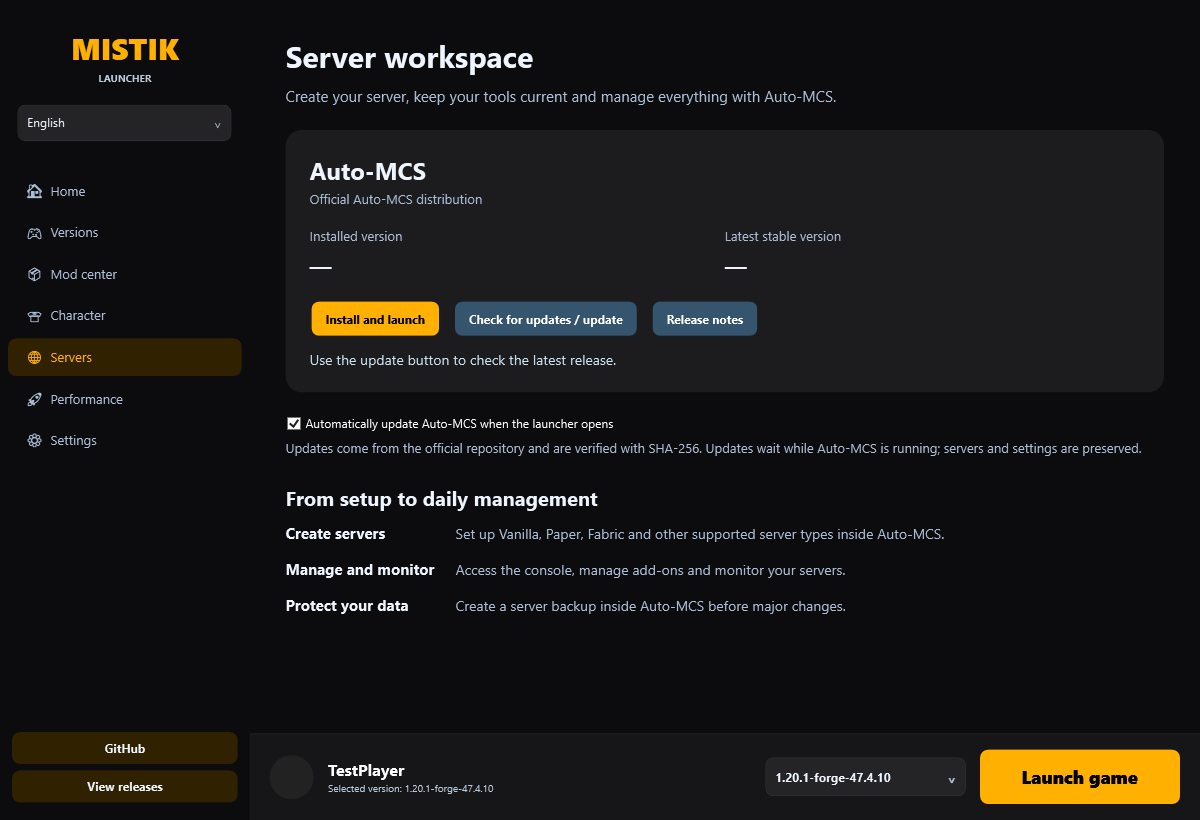
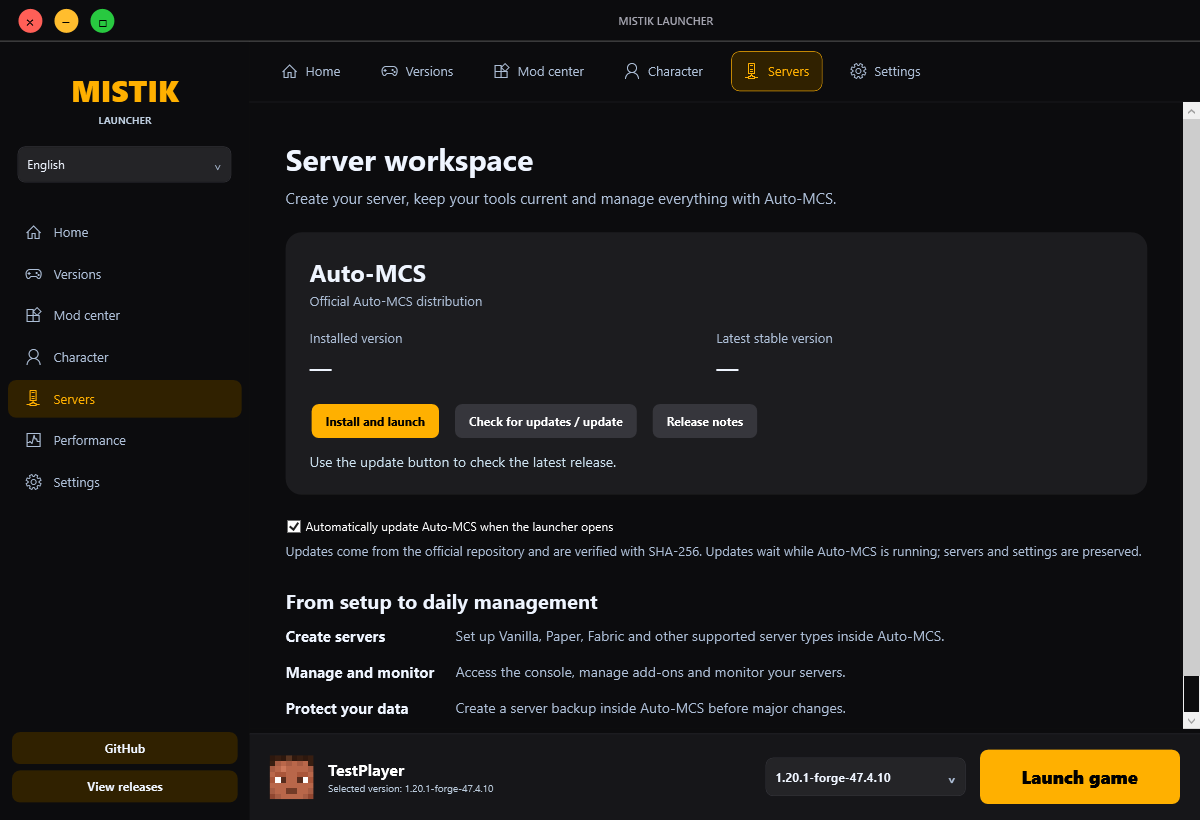
Add customizable themed toolbar and 16 window control appearances

diff --git a/MistikLauncher/MainWindow.xaml b/MistikLauncher/MainWindow.xaml
@@ -45,7 +45,7 @@
             <Setter Property="Template">
                 <Setter.Value>
                     <ControlTemplate TargetType="Button">
-                        <Border x:Name="Bd" Background="{TemplateBinding Background}"
+                        <Border x:Name="Bd" Background="{TemplateBinding Background}" BorderBrush="{TemplateBinding BorderBrush}" BorderThickness="{TemplateBinding BorderThickness}"
                                 CornerRadius="8" Margin="8,2">
                             <ContentPresenter VerticalAlignment="Center"
                                               Margin="{TemplateBinding Padding}"/>
@@ -96,6 +96,13 @@
         </Style>
     </Window.Resources>
 
+    <DockPanel>
+        <Border x:Name="CaptionHost" DockPanel.Dock="Top" Height="42" Background="{DynamicResource Theme0D1727}" BorderBrush="{DynamicResource Theme365574}" BorderThickness="0,0,0,1">
+            <DockPanel>
+                <StackPanel x:Name="CaptionButtons" Orientation="Horizontal" Margin="12,0" VerticalAlignment="Center"/>
+                <TextBlock Text="MISTIK LAUNCHER" Foreground="#A5A5B0" FontSize="11" FontWeight="SemiBold" VerticalAlignment="Center" HorizontalAlignment="Center" Margin="12,0"/>
+            </DockPanel>
+        </Border>
     <Grid Background="{DynamicResource Theme0D1727}">
         <Grid.ColumnDefinitions>
             <ColumnDefinition Width="250"/>
@@ -153,8 +160,13 @@
         </Border>
 
         <!-- ═══ CONTENT ═══════════════════════════════════════════════════════ -->
-        <Frame x:Name="MainFrame" Grid.Column="1" Grid.Row="0"
+        <DockPanel Grid.Column="1" Grid.Row="0">
+            <Border x:Name="QuickBarHost" DockPanel.Dock="Top" Background="{DynamicResource Theme0D1727}" BorderBrush="{DynamicResource Theme365574}" BorderThickness="0,0,0,1" Padding="12,8">
+                <WrapPanel x:Name="QuickBarPanel"/>
+            </Border>
+        <Frame x:Name="MainFrame"
                Background="Transparent" NavigationUIVisibility="Hidden"/>
+        </DockPanel>
 
         <!-- ═══ PROGRESS ══════════════════════════════════════════════════════ -->
         <ProgressBar x:Name="GlobalProgress" Grid.Column="1" Grid.Row="1"
@@ -226,4 +238,5 @@
             </Grid>
         </Border>
     </Grid>
+    </DockPanel>
 </Window>

diff --git a/MistikLauncher/WindowAppearance.cs b/MistikLauncher/WindowAppearance.cs
@@ -1,0 +1,50 @@
+using System.Windows;
+using System.Windows.Controls;
+using System.Windows.Media;
+using System.Windows.Shell;
+namespace MistikLauncher;
+public partial class MainWindow
+{
+    public static readonly string[] WindowButtonStyles={"MacOS","Windows","Minimal","Neon","Retro","Glass","Terminal","Pill","Cyberpunk","Balloon","Aurora","Diamond","NeonOutline","FrostedGlass","Samurai","Hologram"};
+    public void SetWindowButtons(string style)
+    {
+        Config.WindowButtons=WindowButtonStyles.Contains(style)?style:"MacOS";
+        ConfigManager.Save(Config); ApplyWindowAppearance();
+    }
+    public void ApplyWindowAppearance()
+    {
+        string style=WindowButtonStyles.Contains(Config.WindowButtons)?Config.WindowButtons:"MacOS";
+        bool native=style=="Windows";
+        CaptionHost.Visibility=native?Visibility.Collapsed:Visibility.Visible;
+        WindowChrome.SetWindowChrome(this,native?null:new WindowChrome { CaptionHeight=42,ResizeBorderThickness=new Thickness(6),GlassFrameThickness=new Thickness(0),CornerRadius=new CornerRadius(0),UseAeroCaptionButtons=false });
+        WindowStyle=native?WindowStyle.SingleBorderWindow:WindowStyle.None;
+        DockPanel.SetDock(CaptionButtons,style=="MacOS"?Dock.Left:Dock.Right);
+        WindowChrome.SetIsHitTestVisibleInChrome(CaptionButtons,true);
+        CaptionButtons.Children.Clear();
+        var actions=style=="MacOS"?new[]{"close","minimize","maximize"}:new[]{"minimize","maximize","close"};
+        foreach(string action in actions)
+        {
+            var accent=ColorThemes.Brush("#00A3FF").Color;
+            var color=style=="MacOS" ? action switch { "close"=>Color.FromRgb(255,95,87),"minimize"=>Color.FromRgb(255,189,46),_=>Color.FromRgb(40,201,64) } : accent;
+            bool round=new[]{"MacOS","Minimal","Neon","Balloon","Aurora","FrostedGlass","Hologram"}.Contains(style);
+            bool outline=new[]{"Minimal","Terminal","Cyberpunk","NeonOutline","Samurai"}.Contains(style);
+            double width=round?24:38;
+            var fill=new SolidColorBrush(color);
+            Brush background=outline?Brushes.Transparent:style is "Glass" or "FrostedGlass"?new SolidColorBrush(Color.FromArgb(45,color.R,color.G,color.B)):fill;
+            if(style is "Aurora" or "Hologram" or "Pill" or "Balloon") background=new LinearGradientBrush(color,Color.FromRgb((byte)(color.R*0.35),(byte)(color.G*0.35),(byte)(color.B*0.35)),45);
+            var frame=new Border { Background=background,BorderBrush=fill,BorderThickness=new Thickness(outline?1:0),CornerRadius=new CornerRadius(round?12:style=="Pill"?10:style=="Retro"?0:5),Width=width,Height=24 };
+            string glyph=style=="Diamond"?"◆":action switch { "close"=>"×","minimize"=>"−",_=>WindowState==WindowState.Maximized?"❐":"□" };
+            frame.Child=new TextBlock { Text=glyph,FontSize=15,HorizontalAlignment=HorizontalAlignment.Center,VerticalAlignment=VerticalAlignment.Center,Foreground=outline || style is "Glass" or "FrostedGlass"?fill:style=="MacOS"?Brushes.Black:ColorThemes.ActionText };
+            if(style is "Neon" or "NeonOutline" or "Hologram") frame.Effect=new System.Windows.Media.Effects.DropShadowEffect { Color=color,BlurRadius=8,ShadowDepth=0,Opacity=0.45 };
+            var button=new Button { Content=frame,Background=Brushes.Transparent,BorderThickness=new Thickness(0),Padding=new Thickness(5),MinHeight=36,MinWidth=36,ToolTip=Localization.T("window"+action),Cursor=System.Windows.Input.Cursors.Hand };
+            button.Template=(ControlTemplate)System.Windows.Markup.XamlReader.Parse("<ControlTemplate xmlns='http://schemas.microsoft.com/winfx/2006/xaml/presentation' TargetType='Button'><Border Name='focus' Padding='{TemplateBinding Padding}' BorderBrush='Transparent' BorderThickness='1' CornerRadius='5'><ContentPresenter/></Border><ControlTemplate.Triggers><Trigger Property='IsKeyboardFocused' Value='True'><Setter TargetName='focus' Property='BorderBrush' Value='White'/></Trigger><Trigger Property='IsMouseOver' Value='True'><Setter TargetName='focus' Property='Background' Value='#303035'/></Trigger></ControlTemplate.Triggers></ControlTemplate>");
+            System.Windows.Automation.AutomationProperties.SetName(button,Localization.T("window"+action));
+            button.Click+=(_,_)=> {
+                if(action=="close") Close();
+                else if(action=="minimize") WindowState=WindowState.Minimized;
+                else { WindowState=WindowState==WindowState.Maximized?WindowState.Normal:WindowState.Maximized; ApplyWindowAppearance(); }
+            };
+            CaptionButtons.Children.Add(button);
+        }
+    }
+}

diff --git a/MistikLauncher/MainWindow.xaml.cs b/MistikLauncher/MainWindow.xaml.cs
@@ -127,6 +127,7 @@ namespace MistikLauncher
         }
         void RefreshLanguage()
         {
+            ApplyWindowAppearance();
             BuildNav();
             BtnLaunch.Content = Localization.T("play");
             BtnYoutube.Content = Localization.T("releases");
@@ -205,6 +206,7 @@ namespace MistikLauncher
             BtnLaunch.Background = ColorThemes.Brush("#00A3FF");
             BtnLaunch.Foreground = ColorThemes.ActionText;
             GlobalProgress.Foreground = new SolidColorBrush(c);
+            ApplyWindowAppearance();
         }
 
         public void SetColorTheme(string name)
@@ -236,11 +238,36 @@ namespace MistikLauncher
             if (App.AdminAccessEnabled)
                 AddNav("Admin", "👑  Yönetici Paneli");
             AddNav("Settings",  "⚙  Ayarlar");
+            BuildQuickBar();
+        }
+
+        readonly Dictionary<string,Button> quickButtons=new();
+        public void BuildQuickBar()
+        {
+            QuickBarPanel.Children.Clear(); quickButtons.Clear();
+            foreach(var item in new[]{("Dash","home","\uE80F"),("Vers","versions","\uE7FC"),("Mods","mods","\uE74C"),("Skin","skin","\uE77B"),("Server","server","\uE968"),("Settings","settings","\uE713")})
+            {
+                if(!Config.QuickLinks.Contains(item.Item1)) continue;
+                var content=new StackPanel { Orientation=Orientation.Horizontal };
+                content.Children.Add(new TextBlock { Text=item.Item3,FontFamily=new FontFamily("Segoe MDL2 Assets"),FontSize=16,VerticalAlignment=VerticalAlignment.Center,Margin=new Thickness(0,0,8,0) });
+                content.Children.Add(new TextBlock { Text=Localization.T(item.Item2),VerticalAlignment=VerticalAlignment.Center });
+                var button=new Button { Content=content,Style=(Style)FindResource("NavBtn"),Height=44,Padding=new Thickness(12,0,12,0),MinWidth=100 };
+                System.Windows.Automation.AutomationProperties.SetName(button,Localization.T(item.Item2));
+                button.Click+=(_,_)=>Navigate(item.Item1); quickButtons[item.Item1]=button; QuickBarPanel.Children.Add(button);
+            }
+            QuickBarHost.Visibility=quickButtons.Count==0?Visibility.Collapsed:Visibility.Visible;
+            SelectNav(_currentNav);
         }
 
         void AddNav(string key, string label)
         {
-            var btn = new Button { Content = Localization.T(label), Style = (Style)FindResource("NavBtn") };
+            var title=Regex.Replace(Localization.T(label),@"^[^\p{L}]+","");
+            var content=new StackPanel { Orientation=Orientation.Horizontal };
+            string glyph=key switch { "Dash"=>"\uE80F","Vers"=>"\uE7FC","Mods"=>"\uE74C","Skin"=>"\uE77B","Server"=>"\uE968","Opt"=>"\uE9D9",_=>"\uE713" };
+            content.Children.Add(new TextBlock { Text=glyph,FontFamily=new FontFamily("Segoe MDL2 Assets"),FontSize=16,VerticalAlignment=VerticalAlignment.Center,Margin=new Thickness(0,0,12,0) });
+            content.Children.Add(new TextBlock { Text=title,VerticalAlignment=VerticalAlignment.Center });
+            var btn = new Button { Content = content, Style = (Style)FindResource("NavBtn") };
+            System.Windows.Automation.AutomationProperties.SetName(btn,title);
             btn.Click += (_, _) => Navigate(key);
             NavPanel.Children.Add(btn);
             _navBtns[key] = btn;
@@ -251,6 +278,13 @@ namespace MistikLauncher
             foreach (var b in _navBtns.Values) { b.Background=Brushes.Transparent; b.Foreground=HexBrush("#ADBED6"); }
             if (_navBtns.TryGetValue(key, out var btn)) {
                 btn.Background=ColorThemes.Brush("#274565"); btn.Foreground=ColorThemes.Brush("#00A3FF");
+            }
+            foreach(var item in quickButtons) {
+                bool selected=item.Key==key;
+                item.Value.Background=selected?ColorThemes.Brush("#274565"):Brushes.Transparent;
+                item.Value.Foreground=selected?ColorThemes.Brush("#00A3FF"):HexBrush("#ADBED6");
+                item.Value.BorderBrush=selected?ColorThemes.Brush("#00A3FF"):Brushes.Transparent;
+                item.Value.BorderThickness=new Thickness(selected?1:0);
             }
         }
 
@@ -283,6 +317,7 @@ namespace MistikLauncher
                 _pageCache[key] = page;
             }
 
+            page.Resources[typeof(ComboBox)]=FindResource(typeof(ComboBox));
             if(page is ILanguagePage localized) localized.RefreshLanguage();
             MainFrame.Navigate(page);
         }

diff --git a/Validation/Program.cs b/Validation/Program.cs
@@ -67,11 +67,40 @@ class Program
             Check(turkish.Values.All(v=>!string.IsNullOrWhiteSpace(v)) && english.Values.All(v=>!string.IsNullOrWhiteSpace(v)), "no empty translations");
             var application=new MistikLauncher.Application(); application.InitializeComponent();
             var window=new MainWindow { Width=1200, Height=820 };
+            foreach(var style in MainWindow.WindowButtonStyles) {
+                window.SetWindowButtons(style);
+                Check(ConfigManager.Load().WindowButtons==style && ((StackPanel)window.FindName("CaptionButtons")).Children.Count==3,"window button style renders and persists: "+style);
+            }
+            window.SetWindowButtons("MacOS");
+            var caption=(StackPanel)window.FindName("CaptionButtons");
+            ((Button)caption.Children[1]).RaiseEvent(new RoutedEventArgs(Button.ClickEvent));
+            Check(window.WindowState==WindowState.Minimized,"custom window button minimizes");
+            window.WindowState=WindowState.Normal;
+            ((Button)caption.Children[2]).RaiseEvent(new RoutedEventArgs(Button.ClickEvent));
+            Check(window.WindowState==WindowState.Maximized,"custom window button maximizes");
+            ((Button)caption.Children[2]).RaiseEvent(new RoutedEventArgs(Button.ClickEvent));
+            Check(window.WindowState==WindowState.Normal,"custom window button restores");
+            var bar=(System.Windows.Controls.WrapPanel)window.FindName("QuickBarPanel");
+            Check(bar.Children.Count==6,"top bar exposes six bilingual shortcuts by default");
+            window.Config.QuickLinks=new(){"Dash","Settings"}; ConfigManager.Save(window.Config); window.BuildQuickBar();
+            Check(bar.Children.Count==2 && ConfigManager.Load().QuickLinks.SequenceEqual(new[]{"Dash","Settings"}),"shortcut customization persists");
+            ((Button)bar.Children[1]).RaiseEvent(new RoutedEventArgs(Button.ClickEvent));
+            Flush(window);
+            Check(((Frame)window.FindName("MainFrame")).Content is MistikLauncher.Pages.ModernSettingsPage,"top shortcut navigates to requested page");
+            window.Config.QuickLinks.Clear(); window.BuildQuickBar();
+            Check(((Border)window.FindName("QuickBarHost")).Visibility==Visibility.Collapsed,"empty top bar hides without reserving space");
+            window.Config.QuickLinks=new(){"Dash","Vers","Mods","Skin","Server","Settings"}; ConfigManager.Save(window.Config); window.BuildQuickBar();
             foreach(var name in ColorThemes.Names)
             {
                 var surface=ColorThemes.Brush("#192C46"); var previous=surface.Color;
                 window.SetColorTheme(name);
                 Check(ConfigManager.Load().Accent==name && !surface.IsFrozen,"runtime theme persists and remains mutable: "+name);
+                double Luminance(Color color) {
+                    double Linear(byte c) { double v=c/255.0; return v<=0.04045?v/12.92:Math.Pow((v+0.055)/1.055,2.4); }
+                    return Linear(color.R)*0.2126+Linear(color.G)*0.7152+Linear(color.B)*0.0722;
+                }
+                double background=Luminance(ColorThemes.Brush("#00A3FF").Color), foreground=Luminance(((SolidColorBrush)ColorThemes.ActionText).Color);
+                Check((Math.Max(background,foreground)+0.05)/(Math.Min(background,foreground)+0.05)>=4.5,"primary action text contrast meets 4.5:1: "+name);
                 window.Navigate("Dash");
             }
             window.SetColorTheme("Amber");
@@ -117,14 +146,18 @@ class Program
     }
     static void Capture(Window window,string path)
     {
-        var frame=new DispatcherFrame();
-        window.Dispatcher.BeginInvoke(DispatcherPriority.ContextIdle,new Action(()=>frame.Continue=false));
-        Dispatcher.PushFrame(frame);
+        Flush(window);
         var root=(FrameworkElement)window.Content;
         root.Measure(new Size(1200,820)); root.Arrange(new Rect(0,0,1200,820)); root.UpdateLayout();
         var bitmap=new RenderTargetBitmap(1200,820,96,96,PixelFormats.Pbgra32); bitmap.Render(root);
         var encoder=new PngBitmapEncoder(); encoder.Frames.Add(BitmapFrame.Create(bitmap));
         using var file=File.Create(path); encoder.Save(file);
+    }
+    static void Flush(Window window)
+    {
+        var frame=new DispatcherFrame();
+        window.Dispatcher.BeginInvoke(DispatcherPriority.ContextIdle,new Action(()=>frame.Continue=false));
+        Dispatcher.PushFrame(frame);
     }
 }
 

diff --git a/MistikLauncher/Pages/ModernPages.cs b/MistikLauncher/Pages/ModernPages.cs
@@ -136,6 +136,31 @@ public class ModernSettingsPage : Page, ILanguagePage
             tiles.Add((name,tile,mark)); swatches.Children.Add(choice);
         }
         UpdateSelection(); themeContent.Children.Add(swatches); themeCard.Child=themeContent; stack.Children.Insert(2,themeCard);
+        var barCard=new Border { Background=PageHelpers.HexBrush("#192C46"),Padding=new Thickness(20),CornerRadius=new CornerRadius(14),Margin=new Thickness(0,12,0,0) };
+        var barContent=new StackPanel();
+        barContent.Children.Add(PageHelpers.Lbl(Localization.T("barTitle"),18,"#EFF5FF",true));
+        barContent.Children.Add(PageHelpers.Lbl(Localization.T("barHelp"),13,"#ADBED6",pad:new Thickness(0,8,0,12),wrap:TextWrapping.Wrap));
+        var options=new WrapPanel();
+        foreach(var item in new[]{("Dash","home"),("Vers","versions"),("Mods","mods"),("Skin","skin"),("Server","server"),("Settings","settings")})
+        {
+            var option=new CheckBox { Content=Localization.T(item.Item2),IsChecked=main.Config.QuickLinks.Contains(item.Item1),Foreground=PageHelpers.HexBrush("#EFF5FF"),MinHeight=44,MinWidth=140,VerticalContentAlignment=VerticalAlignment.Center };
+            option.Click+=(_,_)=> {
+                if(option.IsChecked==true && !main.Config.QuickLinks.Contains(item.Item1)) main.Config.QuickLinks.Add(item.Item1);
+                else if(option.IsChecked!=true) main.Config.QuickLinks.Remove(item.Item1);
+                ConfigManager.Save(main.Config); main.BuildQuickBar();
+            };
+            options.Children.Add(option);
+        }
+        barContent.Children.Add(options); barCard.Child=barContent; stack.Children.Insert(2,barCard);
+        var windowCard=new Border { Background=PageHelpers.HexBrush("#192C46"),Padding=new Thickness(20),CornerRadius=new CornerRadius(14),Margin=new Thickness(0,12,0,12) };
+        var windowContent=new StackPanel();
+        windowContent.Children.Add(PageHelpers.Lbl(Localization.T("windowStyleTitle"),18,"#EFF5FF",true));
+        windowContent.Children.Add(PageHelpers.Lbl(Localization.T("windowStyleHelp"),13,"#ADBED6",pad:new Thickness(0,8,0,12),wrap:TextWrapping.Wrap));
+        var styleChoice=new ComboBox { ItemsSource=MainWindow.WindowButtonStyles.Select(name=>Localization.T("style"+name)).ToArray(),SelectedIndex=Math.Max(0,Array.IndexOf(MainWindow.WindowButtonStyles,main.Config.WindowButtons)),MinHeight=40 };
+        styleChoice.SelectionChanged+=(_,_)=> {
+            if(styleChoice.SelectedIndex>=0) main.SetWindowButtons(MainWindow.WindowButtonStyles[styleChoice.SelectedIndex]);
+        };
+        windowContent.Children.Add(styleChoice); windowCard.Child=windowContent; stack.Children.Insert(3,windowCard);
         Label("username"); user=PageHelpers.DarkTextBox(main.Config.User); user.MaxLength=16; stack.Children.Add(user);
         stack.Children.Add(PageHelpers.Lbl(Localization.T("usernameHelp"),13,"#BDCAD8",wrap:TextWrapping.Wrap));
         Label("memory"); ram=PageHelpers.DarkTextBox(main.Config.Ram.ToString()); stack.Children.Add(ram);

diff --git a/MistikLauncher/Core.cs b/MistikLauncher/Core.cs
@@ -17,6 +17,8 @@ namespace MistikLauncher
     // â”€â”€ Config â”€â”€â”€â”€â”€â”€â”€â”€â”€â”€â”€â”€â”€â”€â”€â”€â”€â”€â”€â”€â”€â”€â”€â”€â”€â”€â”€â”€â”€â”€â”€â”€â”€â”€â”€â”€â”€â”€â”€â”€â”€â”€â”€â”€â”€â”€â”€â”€â”€â”€â”€â”€â”€â”€â”€â”€â”€â”€â”€â”€â”€â”€
     public class LauncherConfig
     {
+        [JsonProperty("quick_links",ObjectCreationHandling=ObjectCreationHandling.Replace)] public List<string> QuickLinks { get; set; } = new() { "Dash","Vers","Mods","Skin","Server","Settings" };
+        [JsonProperty("window_buttons")] public string WindowButtons { get; set; } = "MacOS";
         [JsonProperty("launcher_auto_update")] public bool LauncherAutoUpdate { get; set; } = true;
         [JsonProperty("auto_mcs_update")] public bool AutoMcsAutoUpdate { get; set; } = true;
         [JsonProperty("user")]       public string User       { get; set; } = "Oyuncu";
@@ -63,6 +65,7 @@ namespace MistikLauncher
             cfg.TunnelPort = Math.Clamp(cfg.TunnelPort, 1, 65535);
             cfg.User = Regex.IsMatch(cfg.User ?? "", @"^[A-Za-z0-9_]{3,16}$") ? cfg.User! : "Player";
             cfg.Friends ??= new(); cfg.FriendCodes ??= new();
+            cfg.QuickLinks=(cfg.QuickLinks ?? new()).Where(x=>new[]{"Dash","Vers","Mods","Skin","Server","Settings"}.Contains(x)).Distinct().Take(6).ToList();
             cfg.Role = "User";
             return cfg;
         }

diff --git a/MistikLauncher/ColorThemes.cs b/MistikLauncher/ColorThemes.cs
@@ -38,7 +38,11 @@ public static class ColorThemes
     {
         var accent=(Color)ColorConverter.ConvertFromString(Preview(Selected));
         Color Shade(double amount)=>Color.FromRgb((byte)(accent.R*amount),(byte)(accent.G*amount),(byte)(accent.B*amount));
-        if(source=="#ACTIONTEXT") return accent.R*0.2126+accent.G*0.7152+accent.B*0.0722>145 ? Colors.Black : Colors.White;
+        if(source=="#ACTIONTEXT") {
+            double Linear(byte channel) { double value=channel/255.0; return value<=0.04045?value/12.92:Math.Pow((value+0.055)/1.055,2.4); }
+            double luminance=Linear(accent.R)*0.2126+Linear(accent.G)*0.7152+Linear(accent.B)*0.0722;
+            return luminance>0.179?Colors.Black:Colors.White;
+        }
         if(source=="#274565") return Shade(0.19);
         if(source=="#00A3FF" || source=="#226DA0") return accent;
         if(source=="#77D8D0") return accent;

diff --git a/MistikLauncher/Pages/SettingsAndMorePages.cs b/MistikLauncher/Pages/SettingsAndMorePages.cs
@@ -17,9 +17,10 @@ namespace MistikLauncher.Pages
         public static SolidColorBrush HexBrush(string hex)
         {
             hex=hex.ToUpperInvariant() switch {
-                "#181818" or "#141414" or "#20364B"=>"#192C46",
+                "#181818" or "#141414" or "#20364B" or "#13253C"=>"#192C46",
                 "#121212" or "#0A0A0A" or "#142333"=>"#0D1727",
-                "#222222" or "#222"=>"#203853", "#333333" or "#333"=>"#365574",
+                "#222222" or "#222" or "#28445E"=>"#203853", "#333333" or "#333" or "#35546E"=>"#365574",
+                "#65C6E8"=>"#00A3FF",
                 "#666666" or "#A0A0A0" or "#BDCAD8"=>"#ADBED6", "#FFFFFF"=>"#EFF5FF", _=>hex.ToUpperInvariant()
             };
             return ColorThemes.IsThemed(hex)?ColorThemes.Brush(hex):new(HexColor(hex));

diff --git a/docs/WINDOW-AND-TOOLBAR.md b/docs/WINDOW-AND-TOOLBAR.md
@@ -1,0 +1,15 @@
+# Pencere ve üst çubuk / Window and toolbar
+
+**Gerekçe / Reasoning:** Kullanıcının RedX ekran görüntüleri koyu, sakin yüzeyler ve renkli seçili öğeler gösteriyor. Üst çubuk, yan menü ve başlatma alanı aynı temayı kullanmalı; kişiselleştirme temel pencere işlevlerini korumalı.
+
+**Uygulama / Implementation:**
+
+- Ayarlar → Üst kısayol çubuğu: Ana panel, Sürümler, Mod merkezi, Karakter, Sunucular, Ayarlar seçeneklerini ayrı ayrı açıp kapatın. Tümünü kapatmak çubuğu gizler. / Settings → Top shortcut bar: toggle six shortcuts individually; disable all to hide it.
+- Ayarlar → Pencere düğmesi stili: macOS, Windows, Minimal, Neon, Retro, Cam, Terminal, Hap, Cyberpunk, Balon, Aurora, Elmas, Neon çerçeve, Buzlu cam, Samuray, Hologram. Seçimler anında uygulanır ve kaydedilir. / Settings → Window button style: choose among 16 immediately applied, persisted appearances.
+- Windows seçeneği standart sistem başlığını kullanır. Diğerleri WPF `WindowChrome` üzerinden sürükleme ve yeniden boyutlandırmayı korur; özel düğmeler küçültür, büyütür/geri yükler ve pencereyi kapatır. / Windows uses the native caption; custom appearances retain dragging and resizing through WPF WindowChrome.
+- Yan menü ve üst çubuk Segoe MDL2 çizgi ikonlarını kullanır; aktif sayfa tema dolgusu, vurgu yazısı ve üst çubukta ince sınırla belirgindir. Klavye odağı ve iki dilde erişilebilir adlar bulunur. / Both navigation areas use consistent line icons, themed active states, visible keyboard focus and bilingual accessible names.
+- 20 temada ana aksiyon yazısı siyah/beyaz olarak göreli parlaklığa göre seçilir ve en az 4.5:1 kontrast doğrulanır. / Main action text meets 4.5:1 in all 20 themes.
+
+Kod / Code: `MistikLauncher/WindowAppearance.cs`, `MainWindow.xaml`, `MainWindow.xaml.cs`, `Pages/ModernPages.cs`, `ColorThemes.cs`, `Core.cs`, `Locales/tr.json`, `Locales/en.json`.
+
+**Sonuç / Conclusion:** Sürüm / version `6.0.0-preview.3`; korumalı pakette / protected package **117 checks passed**, including 16 style persistence/render checks, minimize/maximize/restore, shortcut selection/persistence/navigation/hiding, contrast, languages and existing update/Forge checks. Actual Minecraft gameplay remains unverified. See `screenshots/home-tr.png`, `home-en.png`, `settings-tr.png`, `settings-en.png` for previews.

diff --git a/README.md b/README.md
@@ -130,6 +130,10 @@ Gece laciverti `#0D1727`, yüzey `#192C46`, açık metin `#EFF5FF`, ikincil meti
 Midnight navy, blue surfaces, turquoise accents, consistent typography and a Minecraft block illustration unify the home, shell and settings. Shared legacy cards inherit the new palette. Settings keep Save changes in a fixed footer. Cached bilingual pages are explicitly refreshed and validated.
 # Forge ve renk temaları / Forge and color themes
 
+Üst kısayol çubuğunu ve 16 pencere düğmesi görünümünü Ayarlardan kişiselleştirebilirsiniz. Temalar üst çubuğa, yan menüye ve başlatma alanına uygulanır. [Pencere ve üst çubuk rehberi](docs/WINDOW-AND-TOOLBAR.md).
+
+Customize the top shortcut bar and 16 window control appearances in Settings. Themes coordinate toolbar, sidebar and launch actions. [Window and toolbar guide](docs/WINDOW-AND-TOOLBAR.md).
+
 Forge profillerinin görünmemesi ve seçim kaydının başarısız olması düzeltildi. Kurulum artık resmî Forge yükleyicisini kullanır. Ayarlardan 20 uyumlu renk temasını anında seçebilirsiniz. Ayrıntılar, test kapsamı ve Java gereksinimleri: [Forge ve tema notları](docs/FORGE-AND-THEMES.md).
 
 Official inherited Forge profiles are now selectable and selection persists. Installation uses the official Forge installer. Settings offers 20 coordinated, immediately applied color themes. See [Forge and theme notes](docs/FORGE-AND-THEMES.md) for validation limits and Java requirements.
